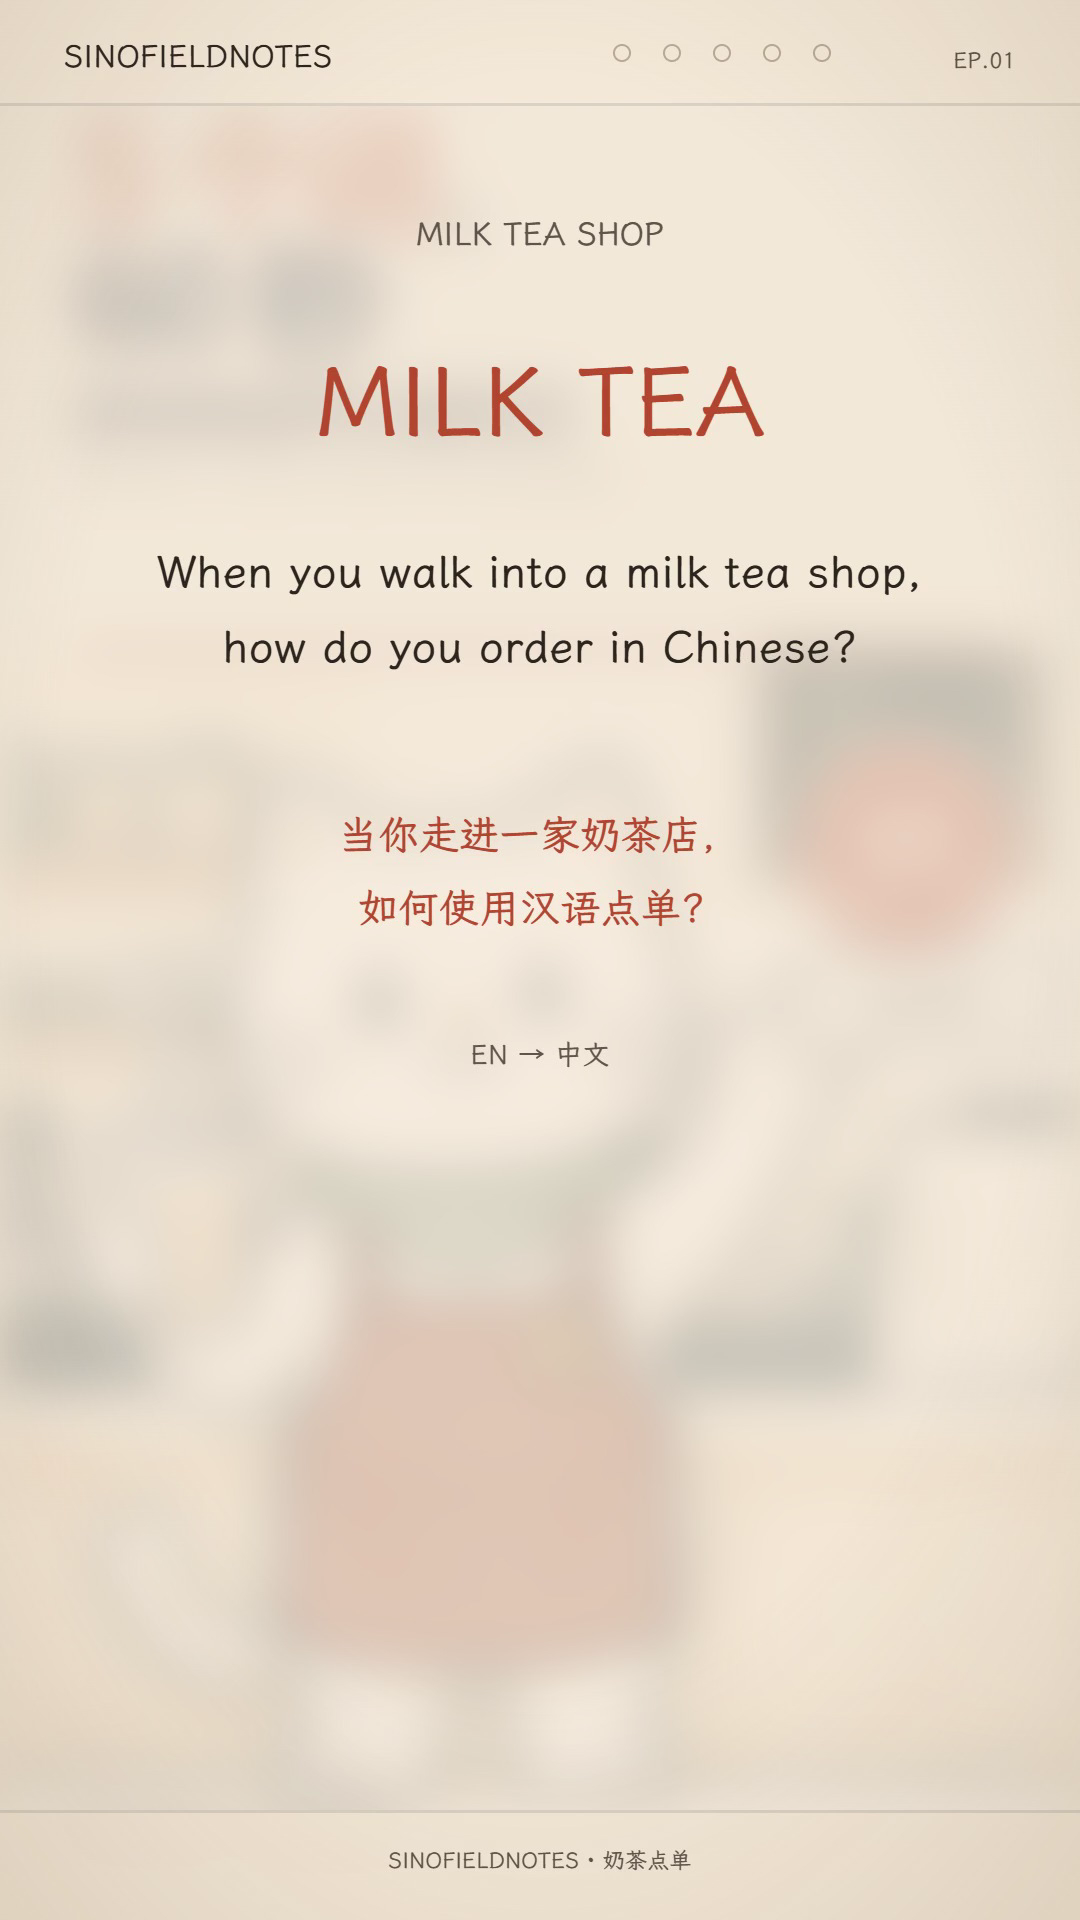
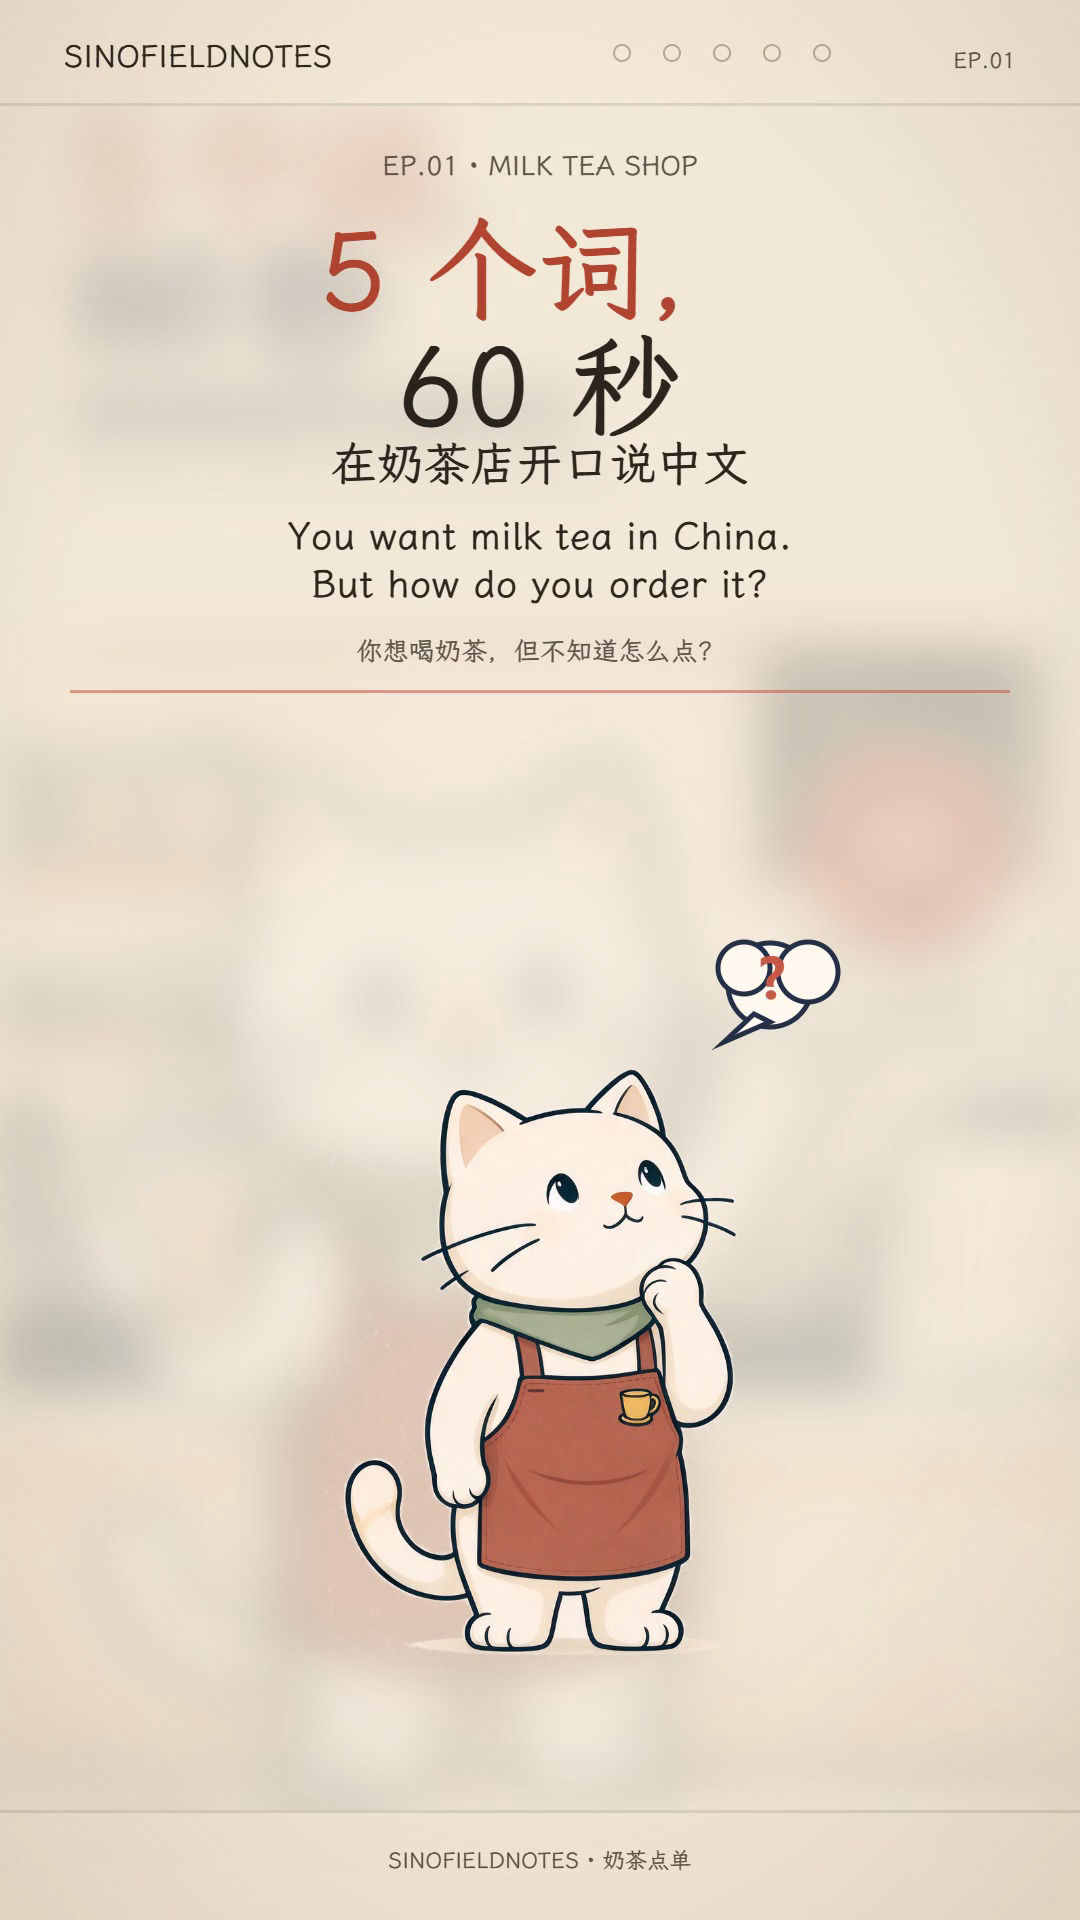
Update skill for fast thinking intro

diff --git a/skills/sinofieldnotes-video/SKILL.md b/skills/sinofieldnotes-video/SKILL.md
@@ -10,7 +10,7 @@ One episode = **one scene, one transaction/dialogue, 5 words, 1 full sentence, 6
 ## Hard rules
 
 1. **No BGM. No sound effects.** Voice + silence only. Reward is visual.
-2. Vertical **1080×1920, 30fps, 55–60s**.
+2. Vertical **1080×1920, 30fps, 55–60s**; first scene must start by **3s**.
 3. Exactly **5 words + 1 sentence**; the sentence must use all 5 words.
 4. One scene, one situation; do not cut across unrelated locations.
 5. Chinese text, pinyin, and English are **always code overlays** — never generated inside an AI image.

diff --git a/skills/sinofieldnotes-video/references/05-build.md b/skills/sinofieldnotes-video/references/05-build.md
@@ -23,6 +23,7 @@ Copy the canonical pattern from `production/episodes/04-milk-tea-order/`. Do not
 - `META.pace.maxHold = 3.0`
 - portrait 1080×1920
 - 8 pages: hook, 5 words, sentence, receipt
+- **p01 = 2–3s only**: blurred Momo background + title + one English hook + sharp thinking Momo in the lower cream area; one thought bubble; no Chinese VO on p01
 - p02 full-sentence answer; p03–p06 short answers
 - answer hold 1.1s; reward stamp at t3
 

diff --git a/skills/sinofieldnotes-video/references/02-vocab-script.md b/skills/sinofieldnotes-video/references/02-vocab-script.md
@@ -33,7 +33,7 @@ Milk tea example:
 
 | Page | Seconds | Beat |
 |---|---|---|
-| p01 | 6–7 | English hook → Chinese hook |
+| p01 | 2–3 | one English hook + thinking Momo; Chinese only as text |
 | p02 | 7–8 | word 1 + full-sentence answer |
 | p03 | 7–8 | word 2 + short answer |
 | p04 | 7–8 | word 3 + short answer |
